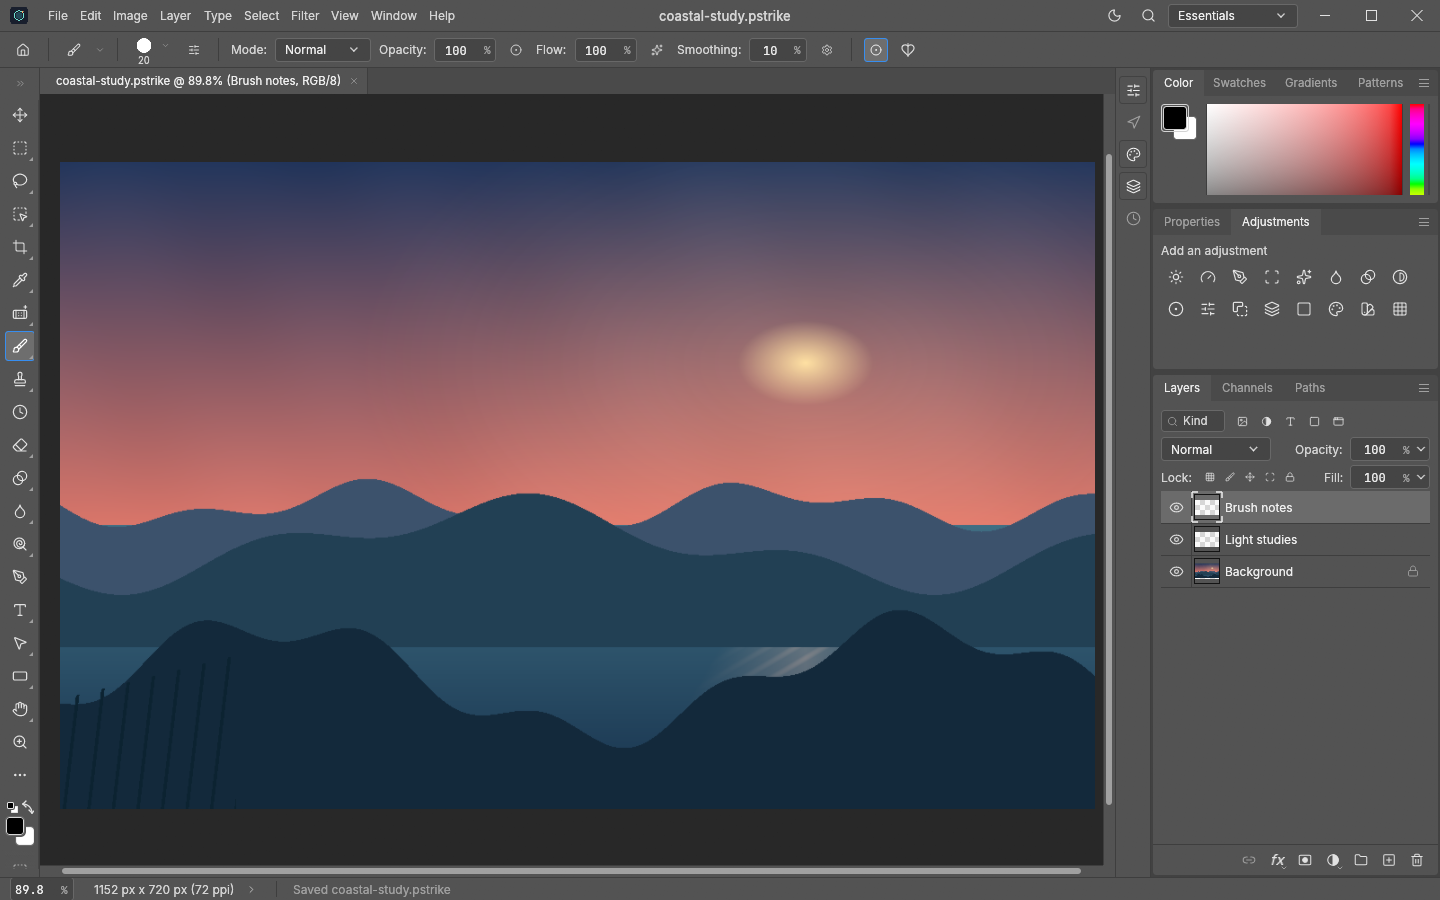
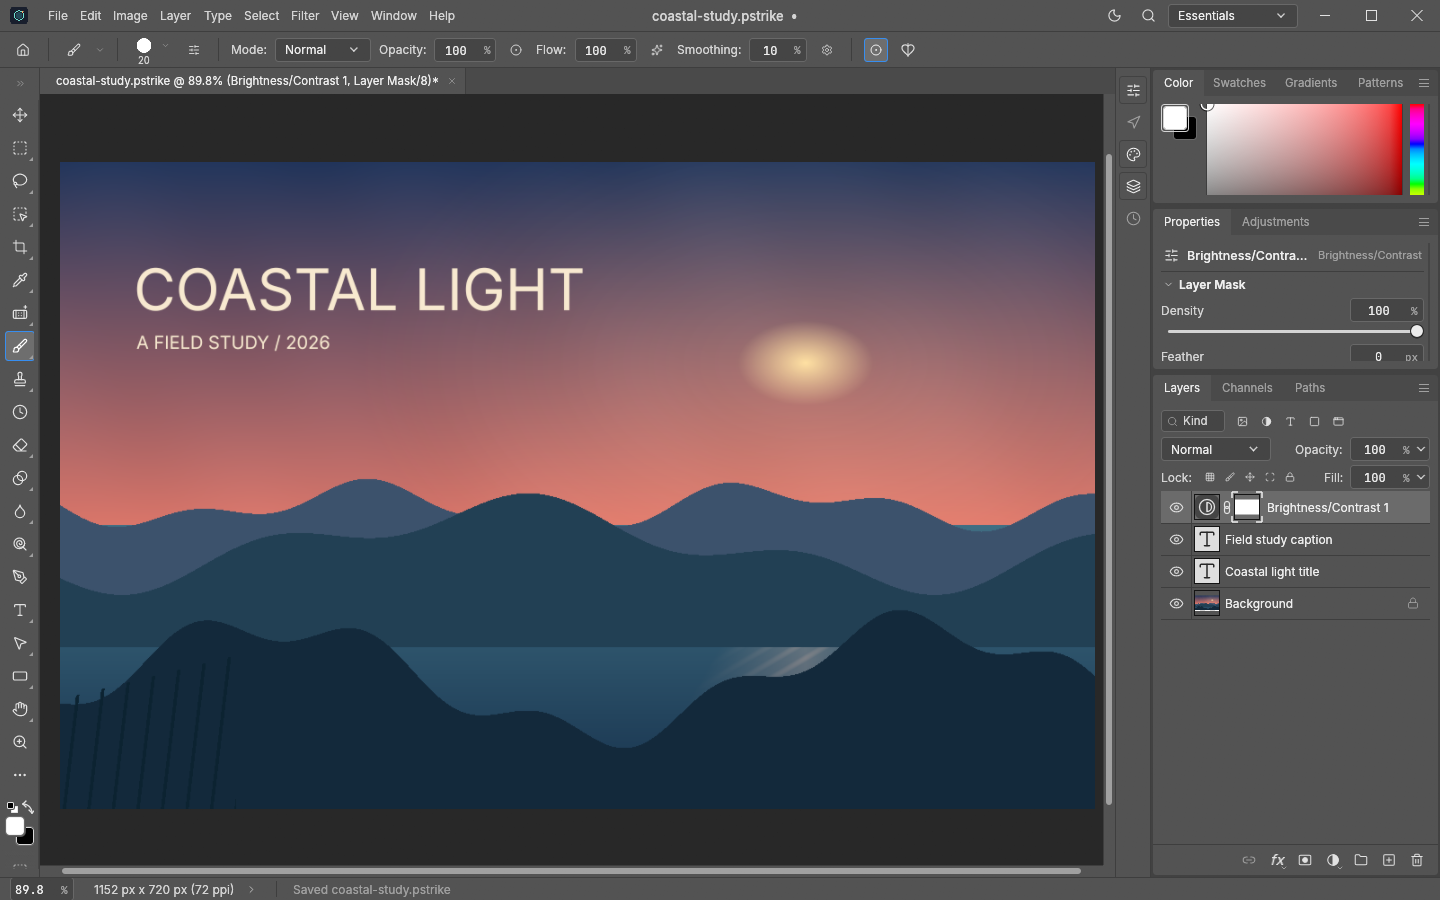
Show visible type layers in PhotoStrike README

diff --git a/docs/SCREENSHOT_PROVENANCE.md b/docs/SCREENSHOT_PROVENANCE.md
@@ -4,11 +4,11 @@ The README images are direct `ui.screenshot` captures of the native PhotoStrike 
 
[1 lines of base64/hex data omitted]
 
-The app was launched with a task-local configuration directory, a localhost authenticated control listener, and read/write roots restricted to an isolated sample folder. The screenshot sequence opened the sample PNG, captured the workspace, created two named blank layers, saved a `.pstrike` project, captured the Layers view, selected the Adjustments tab, and captured that view. The sample and all task-local capture files together used about 1.6 MiB. No builds or dependency downloads were performed for these captures.
+The app was launched with a task-local configuration directory, a localhost authenticated control listener, and read/write roots restricted to an isolated sample folder. The screenshot sequence opened the sample PNG and captured the workspace; created two visible editable type layers with the native `type.create` command; saved a `.pstrike` project and captured its Layers view; then selected the Adjustments tab, added a Brightness/Contrast adjustment layer, and captured its selected mask. The app reported type bounds `[84, 117, 583, 167]` and `[84, 192, 301, 212]`; its history listed the new type layers and the new adjustment layer. The final bounded capture folder used about 2 MiB. No builds or dependency downloads were performed for these captures.
 
 | Asset | SHA-256 |
 | --- | --- |
[6 lines of base64/hex data omitted]

diff --git a/README.md b/README.md
@@ -18,15 +18,15 @@
 
 ### Keep the canvas editable
 
-The canvas, paint controls, color picker, document properties, and layer stack share one desktop window. In this example, an imported PNG sits beneath two new layers. The screenshot shows the actual saved `coastal-study.pstrike` project, with the layer stack visible.
+The canvas, paint controls, color picker, document properties, and layer stack share one desktop window. In this example, an imported PNG sits beneath two editable type layers. The title and caption are visible on the canvas in the actual saved `coastal-study.pstrike` project.
 
-![PhotoStrike showing a saved layered project with Brush notes, Light studies, and Background layers](assets/screenshots/photostrike-layers.png)
+![PhotoStrike showing a saved coastal poster with two visible type layers above the Background layer](assets/screenshots/photostrike-layers.png)
 
 ### Explore adjustments
 
-The Adjustments tab presents the current adjustment choices beside the canvas. This is a view of the running app; individual adjustment behavior and broad compatibility still need interactive review.
+The Adjustments tab offers image adjustment choices beside the canvas. The screenshot shows a new Brightness/Contrast adjustment layer with its mask selected in the layer stack. It does not demonstrate a tuned brightness or contrast result; individual adjustment behavior and broad compatibility still need interactive review.
 
-![PhotoStrike with its Adjustments panel open beside the canvas](assets/screenshots/photostrike-adjustments.png)
+![PhotoStrike showing a Brightness/Contrast adjustment layer and mask above the poster's type layers](assets/screenshots/photostrike-adjustments.png)
 
 ### Save a master, export a flat image
 
